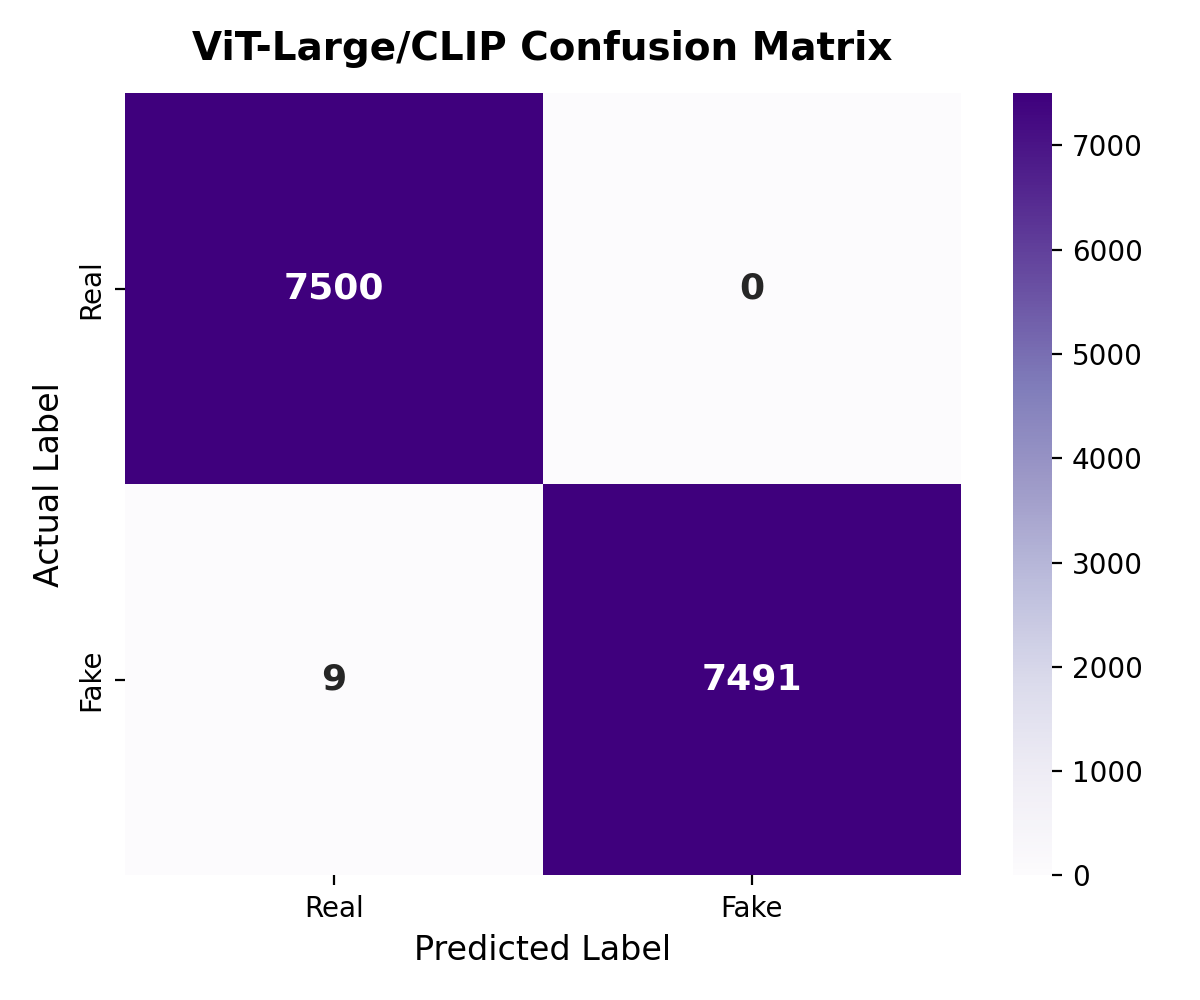
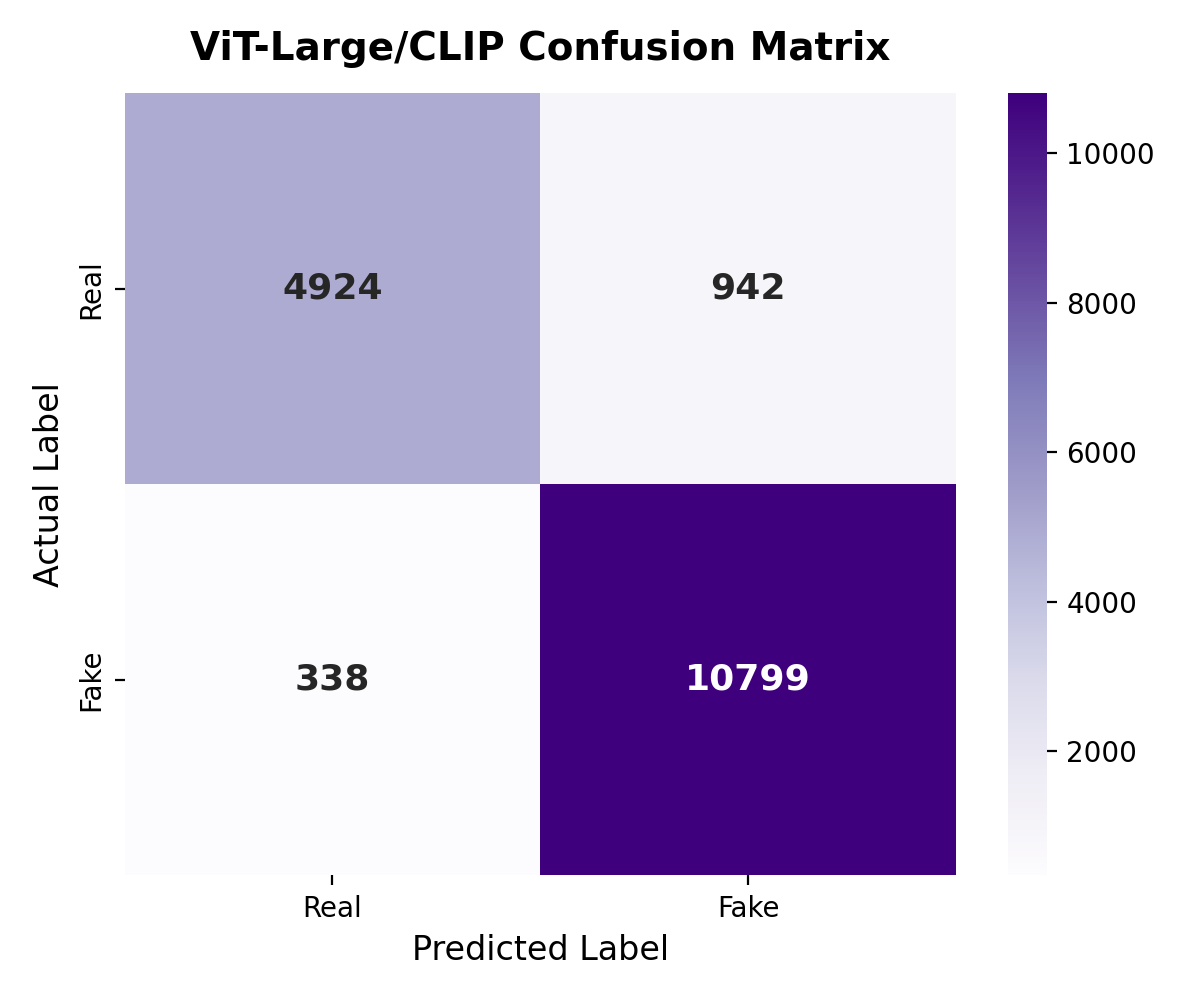
Update ViT-Large/CLIP and EfficientNet-B3 models, metrics and HD charts

diff --git a/scripts/build_metrics_charts.py b/scripts/build_metrics_charts.py
@@ -18,9 +18,9 @@ models_data = {
         "name": "XceptionNet"
     },
     "efficientnet": {
-        "cm": np.array([[7494, 6], [3, 7497]]),
+        "cm": np.array([[5656, 210], [96, 11041]]),
         "cmap": "Greens",
-        "auc": 1.0000,
+        "auc": 0.9976,
         "name": "EfficientNet-B3"
     },
     "vit_small": {
@@ -30,15 +30,15 @@ models_data = {
         "name": "ViT-Small"
     },
     "vit_large_clip": {
-        "cm": np.array([[7500, 0], [9, 7491]]),
+        "cm": np.array([[4924, 942], [338, 10799]]),
         "cmap": "Purples",
-        "auc": 1.0000,
+        "auc": 0.9767,
         "name": "ViT-Large/CLIP"
     },
     "ensemble": {
-        "cm": np.array([[7498, 2], [3, 7497]]),
+        "cm": np.array([[5680, 186], [78, 11059]]),
         "cmap": "Blues",
-        "auc": 1.0000,
+        "auc": 0.9985,
         "name": "Ensemble (Soft Voting)"
     }
 }

diff --git a/core/ensemble.py b/core/ensemble.py
@@ -53,6 +53,14 @@ class Ensemble:
         weights = self.video_weights if kind == "video" else self.image_weights
         threshold = self.video_threshold if kind == "video" else self.image_threshold
         p_fake = weighted_average(scores, weights)
+
+        # Multi-model consensus for images: if multiple models detect manipulation (>= 0.50),
+        # ensure p_fake reflects the consensus of the detecting models.
+        if kind == "image" and scores:
+            fake_votes = [p for p in scores.values() if p >= 0.50]
+            if len(fake_votes) >= 2:
+                p_fake = max(p_fake, sum(fake_votes) / len(fake_votes))
+
         result = self.to_verdict(p_fake, threshold=threshold)
         result["scores"] = {k: round(v, 4) for k, v in scores.items()}
         result["disagreement"] = False
